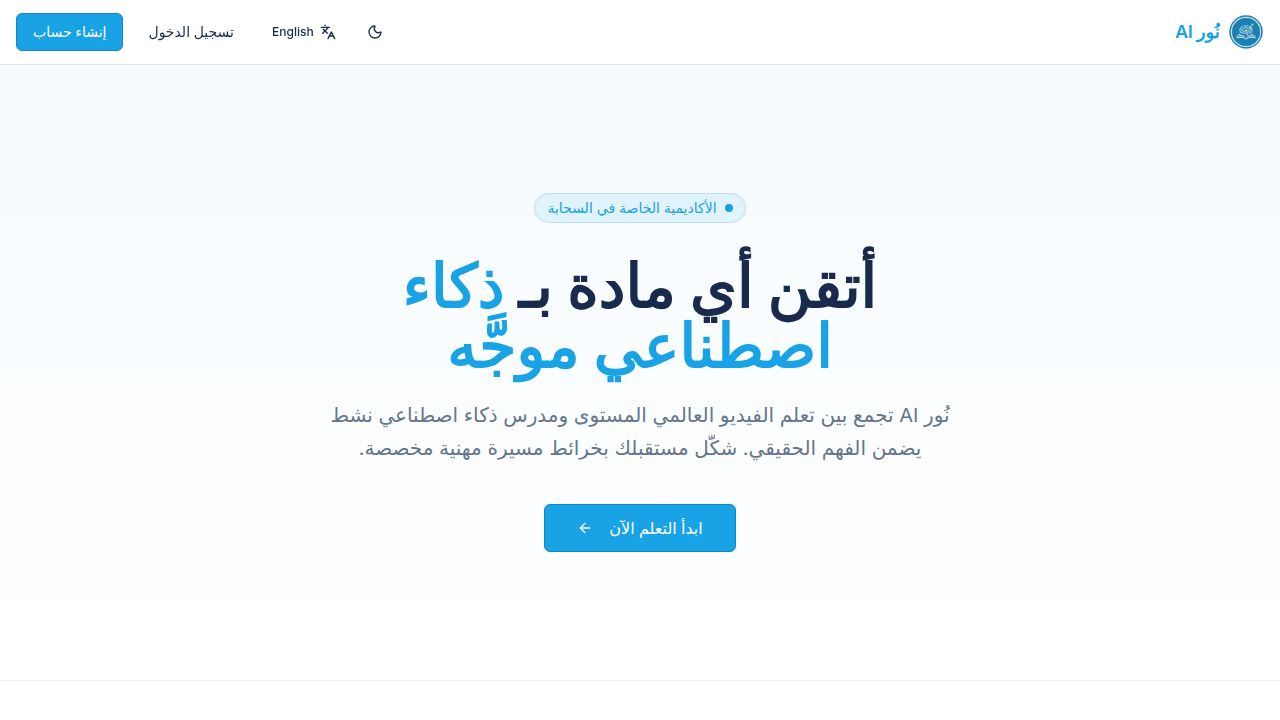
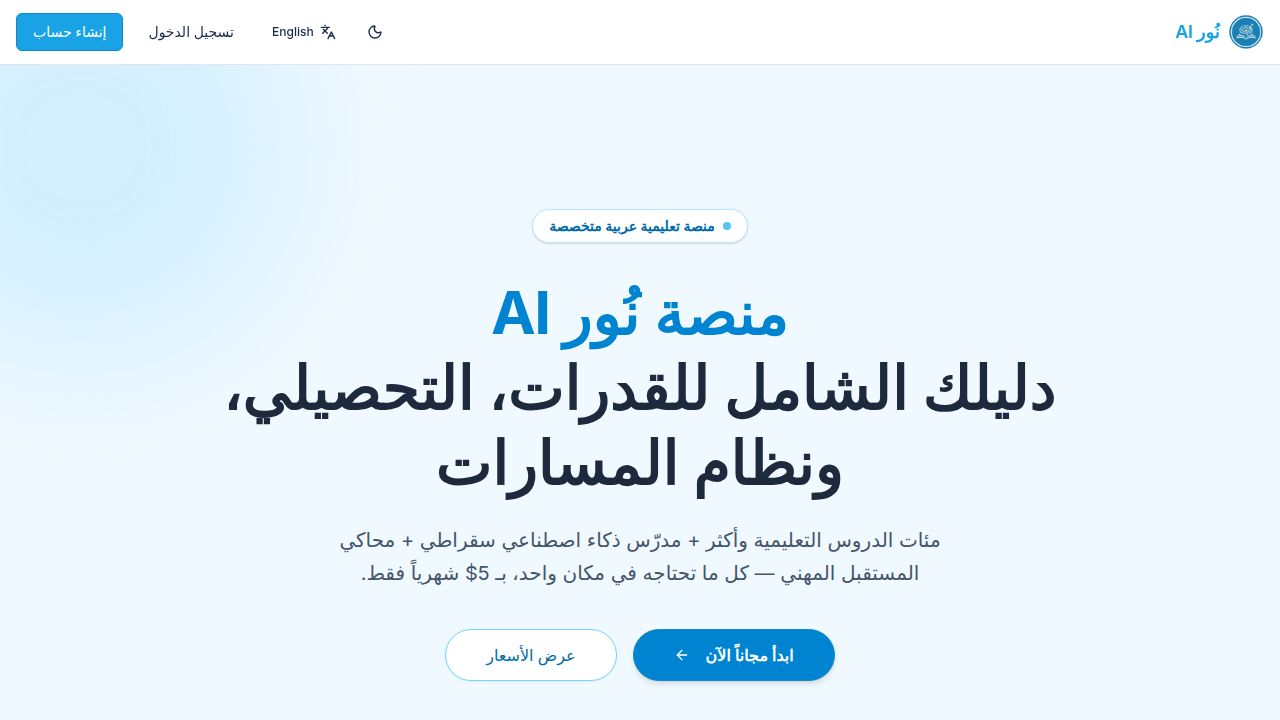
Restore site functionality by fixing routing and service worker cache
Update service worker cache name to clear stale data, adjust root route logic, and add a public view for the subscription page to display pricing for unauthenticated users.

Replit-Commit-Author: Agent
Replit-Commit-Session-Id: 1c643c36-ec52-4fd2-a385-be91c826bad3
Replit-Commit-Checkpoint-Type: full_checkpoint
Replit-Commit-Event-Id: 0cbc2c1a-3a2e-433e-a394-916971af18f4
Replit-Commit-Screenshot-Url: https://storage.googleapis.com/screenshot-production-us-central1/fb3de15d-c63a-47f4-ab38-7f583e21f06f/1c643c36-ec52-4fd2-a385-be91c826bad3/NufJ829
Replit-Helium-Checkpoint-Created: true

Changed region(s): [[0.1562, 0.275, 0.8438, 0.825], [0.0, 0.0917, 0.2188, 0.4889], [0.3438, 0.8556, 0.6562, 0.9778]]

diff --git a/artifacts/noor-ai/src/pages/subscribe.tsx b/artifacts/noor-ai/src/pages/subscribe.tsx
@@ -9,7 +9,7 @@ import { useCreateSubscription } from "@workspace/api-client-react";
 import { useState } from "react";
 import { useToast } from "@/hooks/use-toast";
 import { useAuth } from "@/hooks/use-auth";
-import { Redirect } from "wouter";
+import { Redirect, Link } from "wouter";
 import { useLang } from "@/lib/language";
 import { apiClient } from "@/lib/api";
 
@@ -52,6 +52,81 @@ export default function Subscribe() {
 
   if (user?.subscribed || user?.role === "admin") {
     return <Redirect to="/dashboard" />;
+  }
+
+  // ── Guest view: show pricing card + CTA to register ──────────────────────
+  if (!user) {
+    const guestFeatures = lang === "ar" ? [
+      "جلسات معلم الذكاء الاصطناعي نُور بالأسلوب السقراطي",
+      "نقاط تحقق ذكية تلقائية في كل درس",
+      "وصول غير محدود لجميع الدروس",
+      "محاكي المستقبل مع توقعات مالية",
+      "تتبع التقدم والتحليلات",
+    ] : [
+      "Noor AI Socratic AI Tutor sessions",
+      "Smart auto-checkpoints in every lesson",
+      "Unlimited access to all lessons",
+      "Career Future Simulator with salary projections",
+      "Progress tracking & analytics",
+    ];
+    return (
+      <AppLayout>
+        <div className="container mx-auto px-4 py-20 max-w-3xl text-center">
+          <div className="inline-flex items-center gap-2 bg-sky-100 text-sky-700 border border-sky-200 rounded-full px-4 py-1.5 text-sm font-semibold mb-6">
+            <ShieldCheck className="h-4 w-4" />
+            {lang === "ar" ? "بدون التزام — إلغاء في أي وقت" : "No commitment — cancel anytime"}
+          </div>
+          <h1 className="text-4xl font-extrabold tracking-tight mb-3 text-slate-800">
+            {lang === "ar" ? "اشترك في نُور AI" : "Subscribe to NOOR AI"}
+          </h1>
+          <p className="text-xl text-slate-500 mb-10 max-w-xl mx-auto">
+            {lang === "ar"
+              ? "وصول غير محدود لجميع الميزات بـ 5$ شهرياً فقط."
+              : "Unlimited access to all features for just $5/month."}
+          </p>
+
+          <Card className="border-sky-200 shadow-lg max-w-md mx-auto mb-8">
+            <CardHeader className="pb-4">
+              <CardTitle className="text-2xl text-slate-800">
+                {lang === "ar" ? "الخطة المميزة" : "Premium Plan"}
+              </CardTitle>
+              <div className="flex items-baseline gap-1 mt-2">
+                <span className="text-5xl font-extrabold tracking-tight text-sky-600">$5</span>
+                <span className="text-lg text-slate-400">/{lang === "ar" ? "شهر" : "mo"}</span>
+              </div>
+            </CardHeader>
+            <CardContent>
+              <ul className="space-y-3 text-start mb-6">
+                {guestFeatures.map((f, i) => (
+                  <li key={i} className="flex items-start gap-3 text-sm text-slate-700">
+                    <Check className="h-4 w-4 text-sky-500 shrink-0 mt-0.5" />
+                    <span>{f}</span>
+                  </li>
+                ))}
+              </ul>
+              <div className="flex flex-col gap-3">
+                <Button size="lg" className="w-full h-12 text-base rounded-full bg-sky-600 hover:bg-sky-700 text-white" asChild>
+                  <Link href="/register">
+                    {lang === "ar" ? "إنشاء حساب مجاني والاشتراك" : "Create Free Account & Subscribe"}
+                  </Link>
+                </Button>
+                <Button size="lg" variant="outline" className="w-full h-12 text-base rounded-full border-sky-300 text-sky-700 hover:bg-sky-50" asChild>
+                  <Link href="/login">
+                    {lang === "ar" ? "لديك حساب؟ سجّل الدخول" : "Already have an account? Log in"}
+                  </Link>
+                </Button>
+              </div>
+            </CardContent>
+          </Card>
+
+          <p className="text-xs text-slate-400">
+            {lang === "ar"
+              ? "ادفع بعد إنشاء الحساب — USDT أو بطاقة ائتمان"
+              : "Pay after creating your account — USDT or credit card"}
+          </p>
+        </div>
+      </AppLayout>
+    );
   }
 
   const handlePayment = (method: PayMethod) => {

diff --git a/artifacts/noor-ai/src/App.tsx b/artifacts/noor-ai/src/App.tsx
@@ -28,15 +28,20 @@ const OWNER_EMAIL = "[email redacted]";
 
 const queryClient = new QueryClient();
 
+/**
+ * Root ("/"):
+ *  - Unauthenticated  → render Promo directly (sky-blue landing page, no URL bounce)
+ *  - Authenticated    → redirect to /dashboard
+ */
 function RootRoute() {
   const { isAuthenticated, isLoading } = useAuth();
   if (isLoading) {
     return <div className="flex-1 flex items-center justify-center min-h-screen">جاري التحميل...</div>;
   }
-  if (!isAuthenticated) {
-    return <Redirect to="/promo" />;
+  if (isAuthenticated) {
+    return <Redirect to="/dashboard" />;
   }
-  return <Home />;
+  return <Promo />;
 }
 
 function ProtectedRoute({
@@ -72,25 +77,33 @@ function ProtectedRoute({
 function Router() {
   return (
     <Switch>
+      {/* Root: Promo for guests, dashboard for authenticated users */}
       <Route path="/" component={RootRoute} />
+
+      {/* Public auth routes */}
       <Route path="/login" component={Login} />
       <Route path="/register" component={Register} />
 
+      {/* Public landing & info */}
+      <Route path="/promo" component={Promo} />
+      <Route path="/influencers" component={Influencers} />
+      <Route path="/terms" component={Terms} />
+      <Route path="/privacy" component={Privacy} />
+      <Route path="/refund" component={Refund} />
+
+      {/* Subscribe/pricing — PUBLIC so any visitor can see pricing & payment options */}
+      <Route path="/subscribe" component={Subscribe} />
+
+      {/* Protected — require login; pages handle their own free-vs-subscribed paywall UI */}
       <Route path="/dashboard"><ProtectedRoute component={Dashboard} /></Route>
       <Route path="/videos"><ProtectedRoute component={Videos} /></Route>
       <Route path="/videos/:id"><ProtectedRoute component={VideoPlayer} /></Route>
       <Route path="/future"><ProtectedRoute component={FutureSimulator} /></Route>
-      <Route path="/subscribe"><ProtectedRoute component={Subscribe} /></Route>
+      <Route path="/leaderboard"><ProtectedRoute component={Leaderboard} /></Route>
+
+      {/* Admin */}
       <Route path="/admin"><ProtectedRoute component={AdminPanel} adminOnly={true} /></Route>
       <Route path="/admin-noor"><ProtectedRoute component={AdminNoor} ownerOnly={true} /></Route>
-
-      <Route path="/leaderboard"><ProtectedRoute component={Leaderboard} /></Route>
-      <Route path="/influencers" component={Influencers} />
-      <Route path="/promo" component={Promo} />
-
-      <Route path="/terms" component={Terms} />
-      <Route path="/privacy" component={Privacy} />
-      <Route path="/refund" component={Refund} />
 
       <Route component={NotFound} />
     </Switch>

diff --git a/artifacts/noor-ai/public/sw.js b/artifacts/noor-ai/public/sw.js
@@ -1,4 +1,4 @@
-const CACHE_NAME = 'noor-ai-v1';
+const CACHE_NAME = 'noor-ai-v3';
 const STATIC_ASSETS = [
   '/',
   '/index.html',